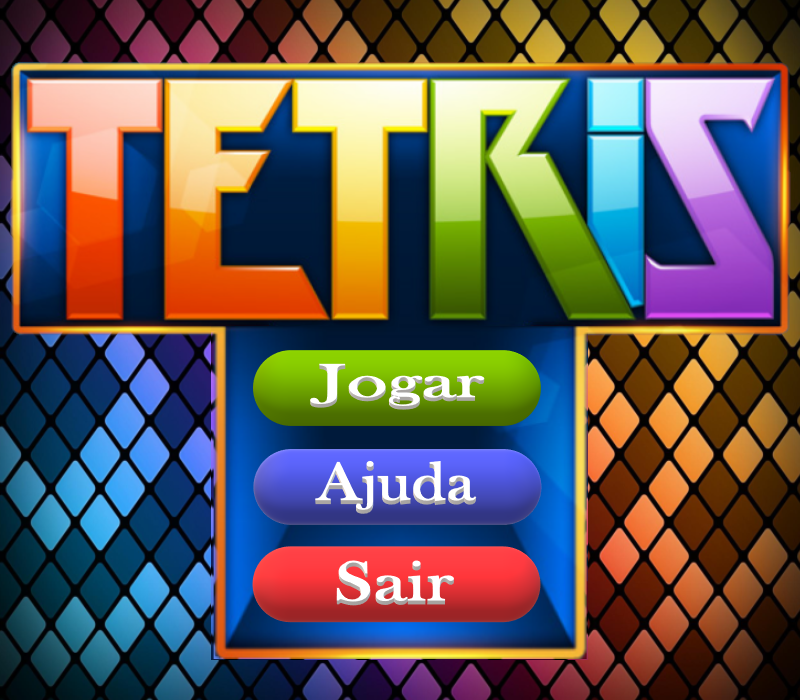
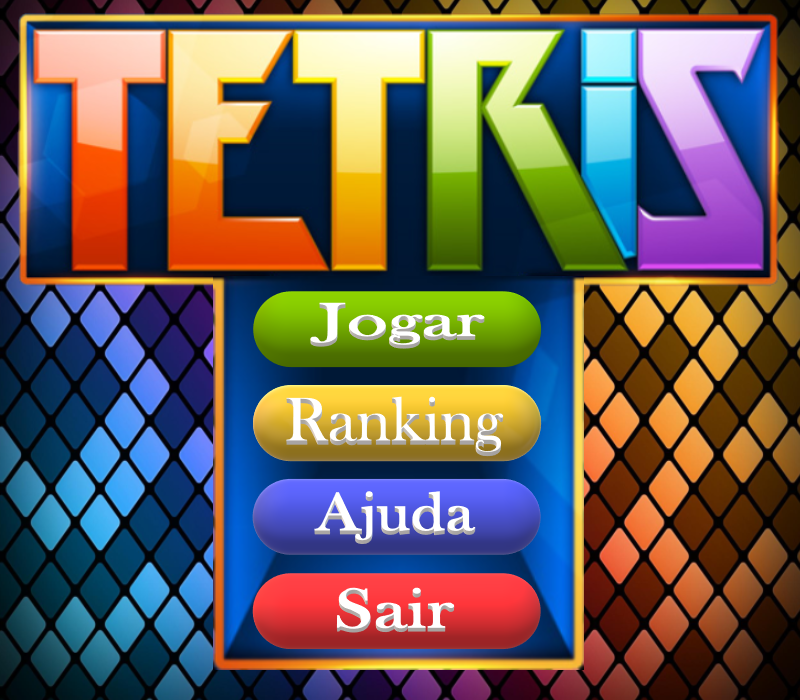
criando raking

diff --git a/projeto/projeto1.py b/projeto/projeto1.py
@@ -24,10 +24,14 @@ def menu_principal():
                     menu_jogar()
 
                 elif event.key == K_2:
-                    menu_ajuda()
+                    menu_raking()
 
                 elif event.key == K_3:
+                    menu_ajuda()
+                elif event.key == K_4:
                     terminar()
+
+
 
         pygame.display.update()
 
@@ -68,9 +72,8 @@ def menu_ajuda():
         pygame.display.update()
 
 
-def tela_inicial(nivel):
-    iniciar_jogo(nivel)
-
+def menu_raking():
+    pass
 
 def iniciar_jogo(modo):
     global relogio, TELA, fonte_basica
@@ -95,6 +98,8 @@ def iniciar_jogo(modo):
 
         elif modo == 3:
             run(3)
+
+
 
 
 # nivel facil:
